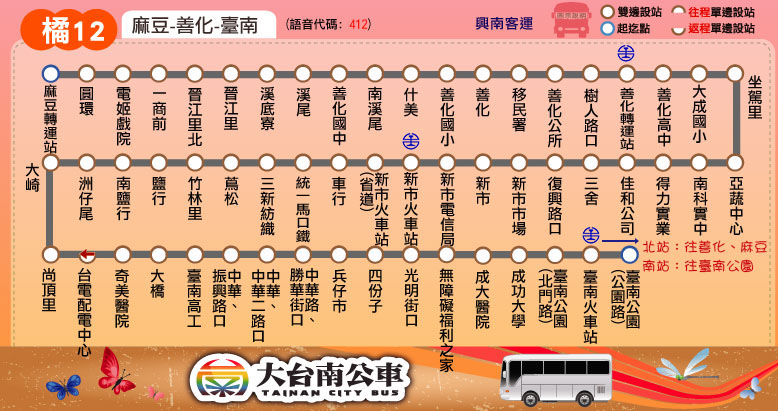
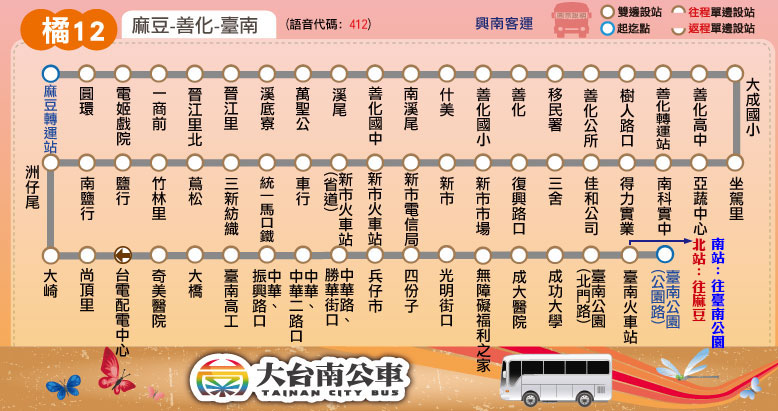
新增站位：5路(增「新行街」)、橘幹線、橘12(增「萬聖公」)

diff --git a/route/fare_and_time/orange.js b/route/fare_and_time/orange.js
@@ -3,7 +3,7 @@ orange_interval_stop = [
 ["佳里站","更寮","彼緹娃蛋糕工廠","大潤發"], // 佳里
 ["子龍里","佳里興路口","子龍廟"], // 子龍廟
 ["麻豆口","新樓醫院","麻豆轉運站","圓環","電姬戲院","麻豆分局","巷口","興國路口","新生南路口"], // 麻豆
-["溪底寮","溪尾","善化國中","南溪尾"], // 溪尾
+["溪底寮","萬聖公","溪尾","善化國中","南溪尾"], // 溪尾
 ["什美","善化國小","善化","移民署","善化公所","樹人路口"], // 善化
 ["善化轉運站","善化高中","大成陸橋"], // 善化轉運站
 ["小新里","磚窯","善化啤酒廠","士宏新村","北勢洲橋"], // 小新營

diff --git a/route/fare_and_time/orange_12.js b/route/fare_and_time/orange_12.js
@@ -1,7 +1,7 @@
 orange_12_interval_name = ["麻豆","溪尾","善化","善化<br />轉運站","善化","亞蔬","南科","三舍","新市","新市<br />火車站","車行","蔦松","鹽行","南臺<br />科大","奇美<br />醫院","兵仔市","臺南"];
 orange_12_interval_stop = [
 ["麻豆轉運站","圓環","電姬戲院","一商前","晉江里北","晉江里"], // 麻豆
-["溪底寮","溪尾","善化國中","南溪尾"], // 溪尾
+["溪底寮","萬聖公","溪尾","善化國中","南溪尾"], // 溪尾
 ["什美","善化國小","善化","移民署","善化公所","樹人路口"], // 善化
 ["善化轉運站"], // 善化轉運站
 ["善化高中","大成國小"], // 善化
